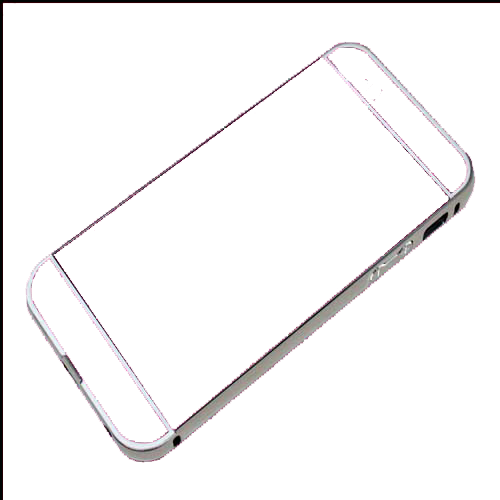
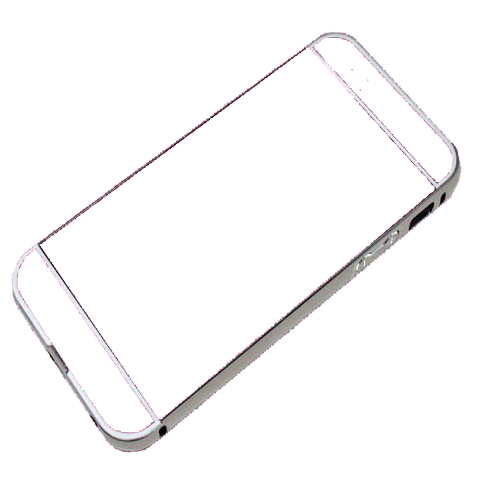
Changes
Form add field stok
Some image edited
Add New Feature (unfinised) Customize Item

Changed region(s): [[0.0, 0.0, 1.0, 1.0]]

diff --git a/application/views/kustom_barang.php b/application/views/kustom_barang.php
@@ -1,0 +1,95 @@
+<?php
+defined('BASEPATH') or exit('No direct script access allowed');
+?>
+<!DOCTYPE html>
+<html lang="en">
+
+<head>
+    <title>CustomPlace</title>
+    <meta charset="utf-8">
+    <meta name="viewport" content="width=device-width, initial-scale=1">
+    <link rel="stylesheet" href="https://maxcdn.bootstrapcdn.com/bootstrap/4.3.1/css/bootstrap.min.css">
+    <link rel="stylesheet" href="https://use.fontawesome.com/releases/v5.8.1/css/all.css"
+        integrity="sha384-50oBUHEmvpQ+1lW4y57PTFmhCaXp0ML5d60M1M7uH2+nqUivzIebhndOJK28anvf" crossorigin="anonymous">
+    <script src="https://ajax.googleapis.com/ajax/libs/jquery/3.3.1/jquery.min.js"></script>
+    <script src="https://cdnjs.cloudflare.com/ajax/libs/popper.js/1.14.7/umd/popper.min.js"></script>
+    <script src="https://maxcdn.bootstrapcdn.com/bootstrap/4.3.1/js/bootstrap.min.js"></script>
+    <link href="<?php echo base_url(); ?>assets/colorpicker/css/bootstrap-colorpicker.css" rel="stylesheet">
+    <script src="<?php echo base_url(); ?>assets/colorpicker/js/bootstrap-colorpicker.js"></script>
+</head>
+
+<body>
+    <?php
+    if ($this->session->userdata('email') !== null) {
+        if ($this->session->userdata('vendorID') === null) {
+            include_once("modal_bikintoko.php");
+        }
+    }
+    include_once("modal.php");
+    include_once("navbar.php");
+    ?>
+
+    <div class="wrapper">
+        <div class="row">
+            <div class=" card col-7 m-2">
+
+                <img src="<?php echo base_url() ?>IMG/vendors_item/2/bumper-iphone.png" id="pictureframe" width="100%"
+                    height="auto" style="background:blue">
+                <!-- <img src="" id=""> -->
+            </div>
+            <div class="card col-4 m-2 jumbotron">
+
+                <h1>Start Customizing Your Item</h1>
+                <form>
+                    <div id="cp1" data-color="#6D2781">
+                        <input type="text" class="form-control" style="width:auto" id="colorinput" /> <br>
+                    </div>
+                    <button class="btn btn-outline-success">Submit</button>
+                </form>
+                <script>
+                $(function() {
+                    $('#cp1')
+                        .colorpicker({
+                            inline: true,
+                            container: true,
+                            extensions: [{
+                                name: 'swatches',
+                                options: {
+                                    colors: {
+                                        'tetrad1': '#000',
+                                        'tetrad2': '#000',
+                                        'tetrad3': '#000',
+                                        'tetrad4': '#000'
+                                    },
+                                    namesAsValues: false
+                                }
+                            }]
+                        })
+                        .on('colorpickerChange colorpickerCreate', function(e) {
+                            var colors = e.color.generate('tetrad');
+
+                            colors.forEach(function(color, i) {
+                                var colorStr = color.string(),
+                                    swatch = e.colorpicker.picker
+                                    .find('.colorpicker-swatch[data-name="tetrad' + (i + 1) + '"]');
+
+                                swatch
+                                    .attr('data-value', colorStr)
+                                    .attr('title', colorStr)
+                                    .find('> i')
+                                    .css('background-color', colorStr);
+                            });
+                        });
+                });
+
+                $('#colorinput').change(function() {
+                    var colorhex = this.value;
+                    $('#pictureframe').css('background-color', colorhex)
+                });
+                </script>
+            </div>
+        </div>
+    </div>
+</body>
+
+</html>

diff --git a/application/controllers/Barang.php b/application/controllers/Barang.php
@@ -39,8 +39,15 @@ class Barang extends CI_Controller
     {
         //function untuk membuat barang (di toko)
         $input = html_escape($this->input->post());
+        $this->load->model('ItemModel');
         print_r($input);
     }
+
+    public function StartCustom()
+    {
+        $this->load->view('kustom_barang');
+    }
+
     public function Update()
     {
         //function untuk mengupdate barang (di toko)
